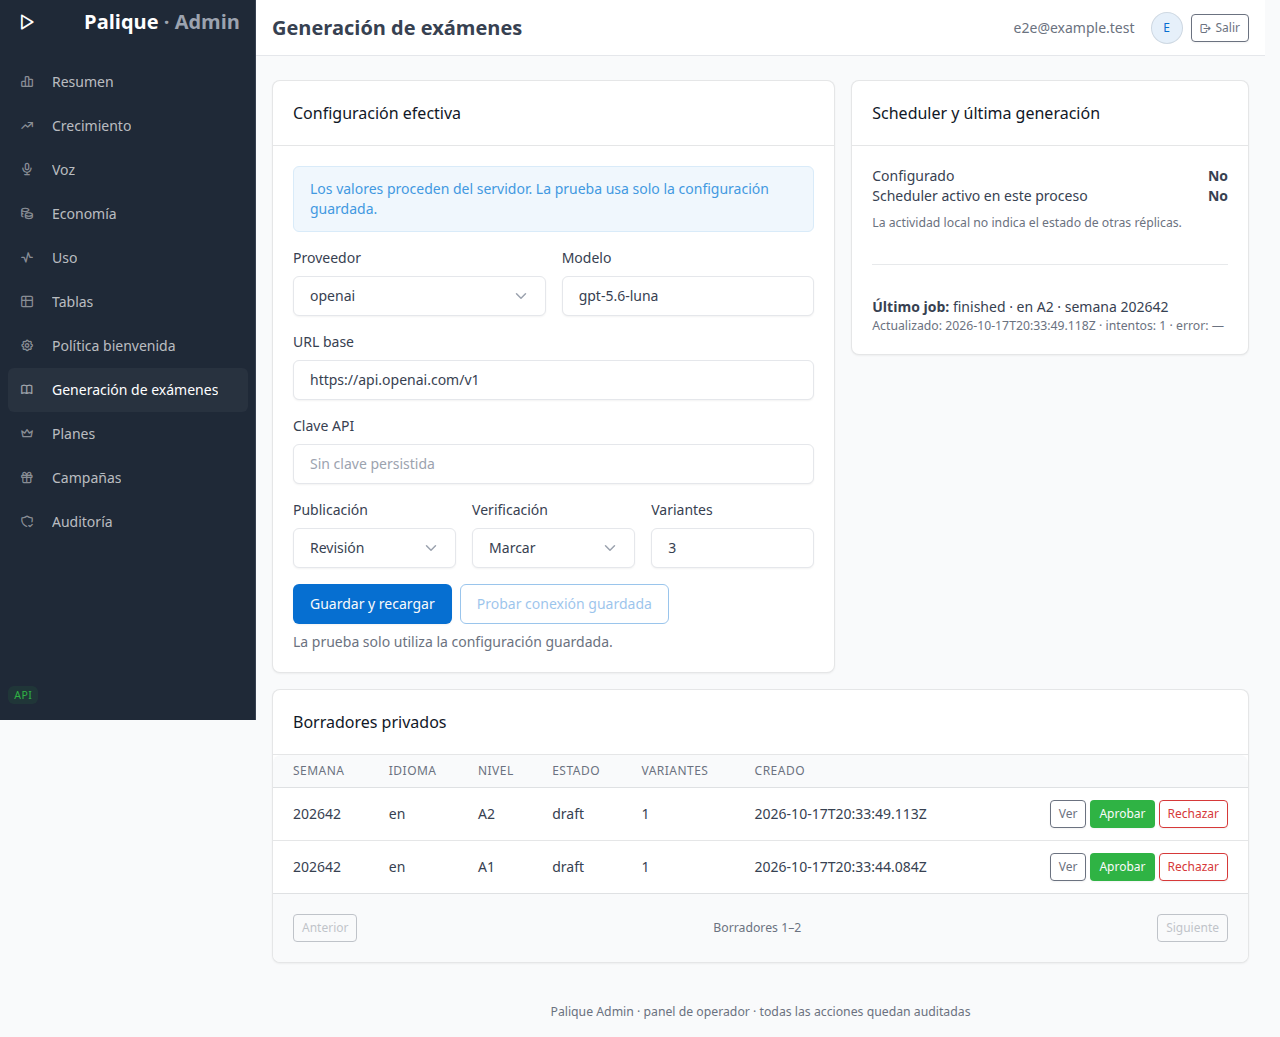
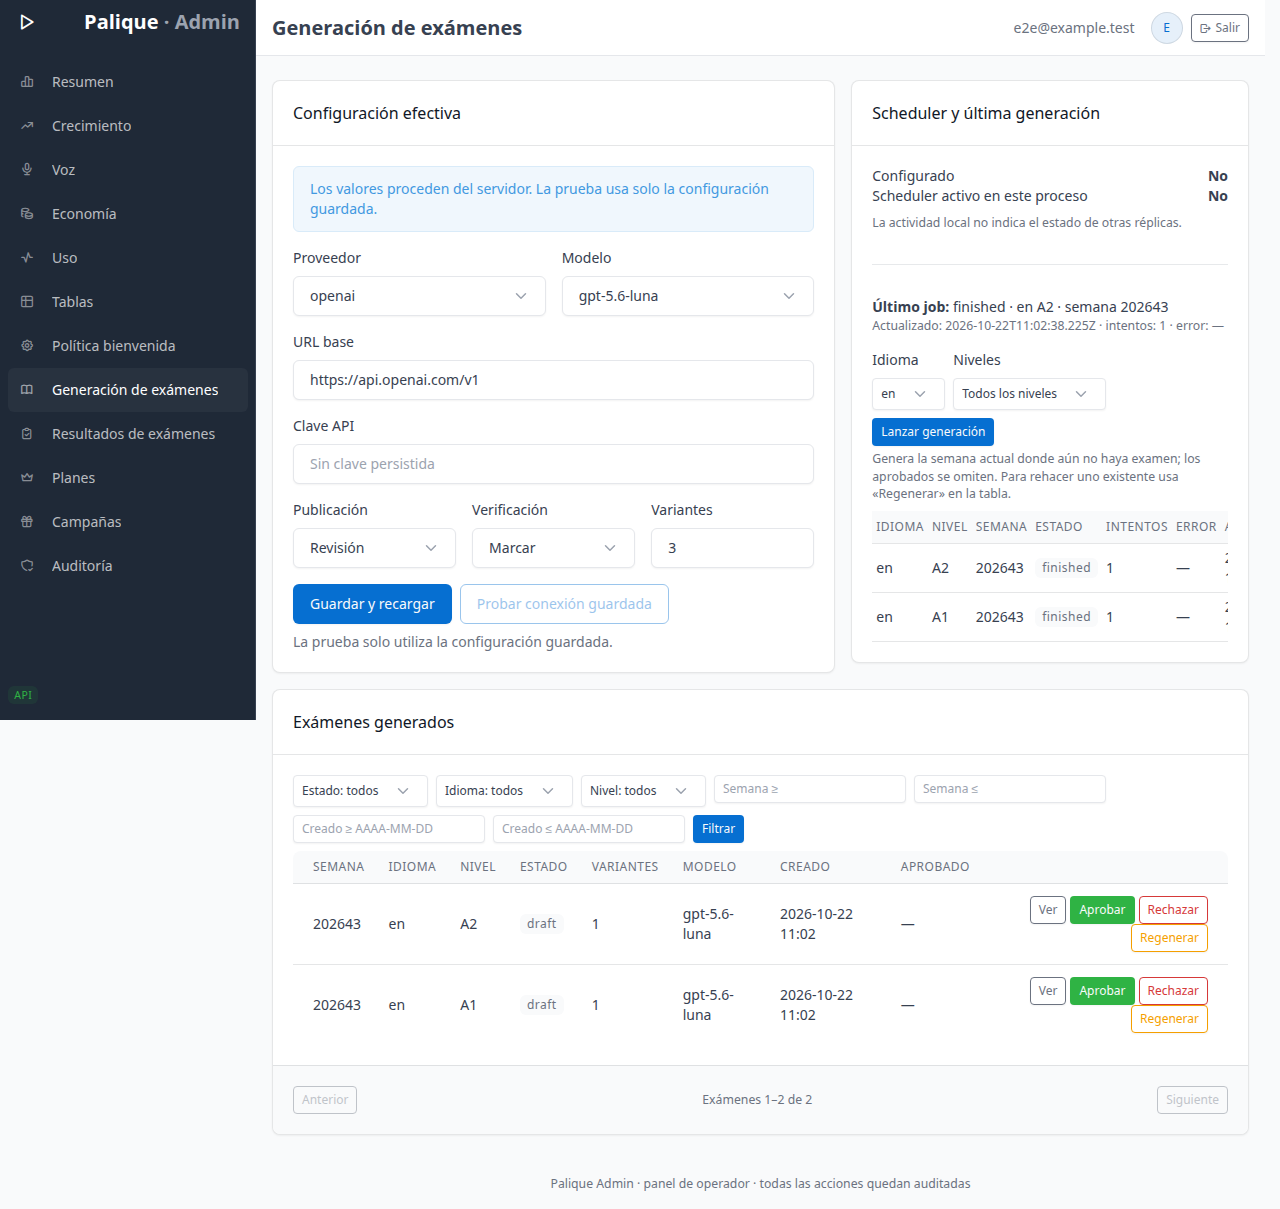
feat(admin-ui): live generation watcher for level-test runs
Launching or regenerating from the panel now paints a status line that
goes queued -> running -> terminal per key, toasts each outcome and
re-renders the weeks table when the run ends, so new drafts show up ready
for review and approval without a manual reload. Running jobs found on
render (scheduler, CLI, another operator) are adopted by the watcher, and
a completion never repaints a section the operator navigated to.

The browser E2E asserts the live status line and the automatic table
refresh, and reports the input value and issued requests when a filter
click gets lost.

diff --git a/services/api/admin-ui/app.js b/services/api/admin-ui/app.js
@@ -292,6 +292,86 @@ async function renderBrowse(container, fixedTable) {
   await mountTable();
 }
 
+/* ---- level-tests view: generation watch state (module scope survives re-renders) ---- */
+let generationWatch = null;      // { keys: Set<'lang:level'>, weekId, timer }
+let lastJobsSnapshot = [];
+let lastWatchStatus = '';
+let levelTestsRender = null;     // { container, view } — refreshed when a watched run ends
+const TERMINAL_JOB_STATES = new Set(['finished', 'failed', 'unknown']);
+
+function renderJobs(jobs = lastJobsSnapshot) {
+  const monitor = $('#jobs-monitor'); if (!monitor) return;
+  monitor.innerHTML = jobs.length ? `<div class="table-responsive"><table class="table table-sm table-vcenter"><thead>
+      <tr><th>Idioma</th><th>Nivel</th><th>Semana</th><th>Estado</th><th>Intentos</th><th>Error</th><th>Actualizado</th></tr></thead><tbody>${jobs.map(job =>
+      '<tr><td>' + escapeHtml(job.languageID) + '</td><td>' + escapeHtml(job.level) + '</td><td>' + escapeHtml(job.weekId) +
+      '</td><td>' + badgeCell({ getValue: () => job.status }) + '</td><td>' + escapeHtml(job.attempts) + '</td><td>' +
+      escapeHtml(job.errorCode || '—') + '</td><td>' + escapeHtml((job.updatedAt || '—').slice(0, 16).replace('T', ' ')) + '</td></tr>').join('')}
+      </tbody></table></div>` : '<div class="text-secondary small">Sin jobs registrados.</div>';
+}
+
+function scheduleGenerationWatch() {
+  if (!generationWatch || generationWatch.timer) return;
+  generationWatch.timer = setTimeout(() => {
+    if (generationWatch) generationWatch.timer = null;
+    void watchGenerationTick();
+  }, 2_000);
+}
+
+async function watchGenerationTick() {
+  const watch = generationWatch;
+  if (!watch) return;
+  const mounted = Boolean($('#jobs-monitor'));
+  if (mounted) {
+    try {
+      const status = await api('/v1/admin/level-tests/status');
+      if (generationWatch !== watch) return;
+      lastJobsSnapshot = status.jobs;
+      renderJobs(lastJobsSnapshot);
+      const byKey = new Map(status.jobs
+        .filter(job => watch.keys.has(`${job.languageID}:${job.level}`) && job.weekId === watch.weekId)
+        .map(job => [`${job.languageID}:${job.level}`, job]));
+      const done = [...watch.keys].filter(key => byKey.get(key) && TERMINAL_JOB_STATES.has(byKey.get(key).status));
+      for (const key of done) {
+        const job = byKey.get(key);
+        watch.results.push(`${key} → ${job.status}${job.errorCode ? ` (${job.errorCode})` : ''}`);
+        toast(`${key}: generación ${job.status === 'finished' ? 'completada' : job.status}${job.errorCode ? ` (${job.errorCode})` : ''}`,
+          job.status === 'finished' ? 'success' : 'danger');
+        watch.keys.delete(key);
+      }
+      const running = [...watch.keys].filter(key => byKey.get(key)?.status === 'running');
+      const queued = [...watch.keys].filter(key => !byKey.get(key));
+      lastWatchStatus = [
+        running.length ? `En marcha: ${running.join(', ')}` : '',
+        queued.length ? `En cola: ${queued.join(', ')}` : '',
+        watch.results.join(' · '),
+      ].filter(Boolean).join(' — ') || 'Esperando al runner de generación…';
+      const line = $('#launch-status');
+      if (!watch.keys.size) {
+        generationWatch = null;
+        lastWatchStatus = `Completado: ${watch.results.join(' · ')}`;
+        if (line) line.textContent = lastWatchStatus;
+        // The runner is done: refresh the weeks table so the new exams show up
+        // ready for review / approve without a manual reload. Never repaint if
+        // the operator moved to another view (they share the same container).
+        if (levelTestsRender && $('#exam-weeks-card'))
+          void renderLevelTestOperations(levelTestsRender.container, levelTestsRender.view);
+        return;
+      }
+      if (line) line.textContent = lastWatchStatus;
+    } catch { /* polling is best effort; retry on the next tick */ }
+  }
+  scheduleGenerationWatch();
+}
+
+function startGenerationWatch(keys, weekId) {
+  if (!keys.length) return;
+  generationWatch = generationWatch && generationWatch.weekId === weekId
+    ? { ...generationWatch, keys: new Set([...generationWatch.keys, ...keys]) }
+    : { keys: new Set(keys), results: [], weekId, timer: null };
+  lastWatchStatus = '';
+  scheduleGenerationWatch();
+}
+
 async function renderLevelTestOperations(container, view = {}) {
   // ISO week id mirroring the server's weekIndex(): year * 100 + ISO week.
   const now = new Date();
@@ -300,6 +380,7 @@ async function renderLevelTestOperations(container, view = {}) {
   monday.setUTCDate(monday.getUTCDate() + 4 - dayNum);
   const yearStart = new Date(Date.UTC(monday.getUTCFullYear(), 0, 1));
   const currentWeekId = monday.getUTCFullYear() * 100 + Math.ceil(((monday.getTime() - yearStart.getTime()) / 86_400_000 + 1) / 7);
+  levelTestsRender = { container, view };
   const filters = view.filters ?? {};
   const params = new URLSearchParams({ limit: '50', offset: String(view.offset ?? 0) });
   for (const [key, value] of Object.entries(filters)) if (value) params.set(key, String(value));
@@ -307,6 +388,13 @@ async function renderLevelTestOperations(container, view = {}) {
     api('/v1/admin/llm-config'), api('/v1/admin/level-tests/status'),
     api('/v1/admin/level-tests/weeks?' + params)
   ]);
+  // Paint the freshest jobs immediately; the watcher keeps them current while
+  // a generation launched from this session is still in flight.
+  lastJobsSnapshot = status.jobs;
+  // Also pick up runs started elsewhere (scheduler, CLI, another operator) so a
+  // reload never leaves the operator blind about an in-flight generation.
+  const runningJobs = status.jobs.filter(job => job.status === 'running' && job.weekId === currentWeekId);
+  if (runningJobs.length) startGenerationWatch(runningJobs.map(job => `${job.languageID}:${job.level}`), currentWeekId);
   const providers = config.providers.map(item =>
     '<option value="' + escapeHtml(item.provider) + '"' + (item.provider === config.provider ? ' selected' : '') + '>' + escapeHtml(item.provider) + '</option>').join('');
   const keyPlaceholder = config.keyHint ? 'Guardada: ' + escapeHtml(config.keyHint) + ' · vacío conserva la clave' : 'Sin clave persistida';
@@ -373,6 +461,7 @@ async function renderLevelTestOperations(container, view = {}) {
           <div class="col-auto"><button class="btn btn-sm btn-primary" id="gen-launch">Lanzar generación</button></div>
         </div>
         <div class="text-secondary small mt-1">Genera la semana actual donde aún no haya examen; los aprobados se omiten. Para rehacer uno existente usa «Regenerar» en la tabla.</div>
+        <div class="small mt-1 fw-bold" id="launch-status">${escapeHtml(lastWatchStatus)}</div>
       </div>
       <div id="jobs-monitor" class="mt-2"></div>
     </div></div></div>
@@ -478,23 +567,9 @@ async function renderLevelTestOperations(container, view = {}) {
       toast(action === 'approve' ? 'Borrador aprobado' : 'Borrador rechazado'); await renderLevelTestOperations(container, view); }
     catch (error) { toast('Error: ' + (error.code || error.message), 'danger'); button.disabled = false; }
   });
-  const renderJobs = jobs => { const monitor = $('#jobs-monitor'); if (!monitor) return;
-    monitor.innerHTML = jobs.length ? `<div class="table-responsive"><table class="table table-sm table-vcenter"><thead>
-      <tr><th>Idioma</th><th>Nivel</th><th>Semana</th><th>Estado</th><th>Intentos</th><th>Error</th><th>Actualizado</th></tr></thead><tbody>${jobs.map(job =>
-      '<tr><td>' + escapeHtml(job.languageID) + '</td><td>' + escapeHtml(job.level) + '</td><td>' + escapeHtml(job.weekId) +
-      '</td><td>' + badgeCell({ getValue: () => job.status }) + '</td><td>' + escapeHtml(job.attempts) + '</td><td>' +
-      escapeHtml(job.errorCode || '—') + '</td><td>' + escapeHtml((job.updatedAt || '—').slice(0, 16).replace('T', ' ')) + '</td></tr>').join('')}
-      </tbody></table></div>` : '<div class="text-secondary small">Sin jobs registrados.</div>';
-  };
-  const pollJobs = async () => {
-    if (!$('#jobs-monitor')) return;
-    try { const fresh = await api('/v1/admin/level-tests/status');
-      if (!$('#jobs-monitor')) return;
-      renderJobs(fresh.jobs);
-      if (fresh.jobs.some(job => job.status === 'running')) setTimeout(pollJobs, 5000);
-    } catch { /* polling is best effort */ }
-  };
-  void pollJobs();
+  // Repaint the watch state on re-render and keep ticking while mounted.
+  renderJobs();
+  scheduleGenerationWatch();
   $('#gen-launch').onclick = async () => {
     const languageID = $('#gen-language').value, levels = $('#gen-levels').value;
     const target = `${languageID} · ${levels === 'all' ? 'todos los niveles' : levels}`;
@@ -503,10 +578,11 @@ async function renderLevelTestOperations(container, view = {}) {
     try {
       const outcome = await api('/v1/admin/level-tests/generate', { method: 'POST',
         body: JSON.stringify({ languageID, levels, reason: decision.reason }) });
-      const launched = outcome.keys.filter(key => key.status === 'started').length;
-      const skipped = outcome.keys.length - launched;
-      toast(`Lanzados ${launched} examen(es)${skipped ? ` · ${skipped} aprobados omitidos` : ''}`);
-      void pollJobs();
+      const launched = outcome.keys.filter(key => key.status === 'started');
+      const skipped = outcome.keys.length - launched.length;
+      toast(`Lanzados ${launched.length} examen(es)${skipped ? ` · ${skipped} aprobados omitidos` : ''}`);
+      startGenerationWatch(launched.map(key => `${key.languageID}:${key.level}`), currentWeekId);
+      void watchGenerationTick();
     } catch (error) { toast('Error: ' + (error.code || error.message), 'danger'); }
   };
   container.querySelectorAll('[data-week-regenerate]').forEach(button => button.onclick = async () => {
@@ -516,7 +592,8 @@ async function renderLevelTestOperations(container, view = {}) {
     button.disabled = true;
     try { await api('/v1/admin/level-tests/regenerate', { method: 'POST',
         body: JSON.stringify({ languageID, level, reason: decision.reason }) });
-      toast('Regeneración iniciada'); void pollJobs();
+      toast('Regeneración iniciada'); startGenerationWatch([`${languageID}:${level}`], currentWeekId);
+      void watchGenerationTick();
     } catch (error) { toast('Error: ' + (error.code || error.message), 'danger'); button.disabled = false; }
   });
 }

diff --git a/openspec/changes/admin-exam-operations/verify-report.md b/openspec/changes/admin-exam-operations/verify-report.md
@@ -6,7 +6,8 @@ Fecha: 2026-10-22 · Rama `feature/learning-platform`
 
 - `npx tsc --noEmit` (services/api): limpio.
 - `make test-api` (suite completa con PG 17 efímero): **559/559 pass**, 0 fallos. Incluye:
-  - `tests/level-tests-admin.test.ts` (13 tests): listado de semanas con filtros status/language/level/rango de semanas/rango de fechas, orden con whitelist, paginación con total estable, 400 en query malformada, 401/403 (auth + Origin), `no-store`; detalle con pool/variants/review y 404/400; regeneración (202 + auditoría, 409 en clave aprobada sin auditoría, 400 en semana pasada/razón corta/claves inválidas, CSRF 403, 401 sin sesión); `jobs[]` en `/status` conservando `latestJob`.
+  - `tests/level-tests-admin.test.ts` (17 tests, incluye el lanzador on-demand:
+    omisión de claves aprobadas, nivel único, validaciones 400/401 y auditoría): listado de semanas con filtros status/language/level/rango de semanas/rango de fechas, orden con whitelist, paginación con total estable, 400 en query malformada, 401/403 (auth + Origin), `no-store`; detalle con pool/variants/review y 404/400; regeneración (202 + auditoría, 409 en clave aprobada sin auditoría, 400 en semana pasada/razón corta/claves inválidas, CSRF 403, 401 sin sesión); `jobs[]` en `/status` conservando `latestJob`.
   - `tests/level-tests-attempts.test.ts` (9 tests): listado de resultados con joins snapshot/alumno, filtros account/email/language/level/state/passed/rangos, orden por overall, paginación; detalle con answers + result y 404 cross-account; summary con KPIs y desglose por semana y por nivel; export CSV con cabecera según spec, escape de fórmulas (`'=`) y tope 10 000 (413 `export_too_large`).
   - Suite preexistente completa en verde.
 - `node --check services/api/admin-ui/app.js`: OK (UI sin build).
@@ -17,8 +18,10 @@ Fecha: 2026-10-22 · Rama `feature/learning-platform`
   fuera (listado con filtros, moderación con motivo, regeneración con monitor
   de jobs, resultados con filtros, detalle, vista por alumno) están cubiertos
   ahora por el E2E de navegador real (`services/api/tests/browser/admin-e2e.mjs`,
-  24/24 checks con stack Docker aislado + LLM stub + Chromium local, incluyendo
-  el lanzador de generación desde el panel).
+  25/25 checks con stack Docker aislado + LLM stub + Chromium local, incluyendo
+  el lanzador de generación desde el panel y el watcher de progreso: línea de
+  estado en vivo, estado final por clave y refresco automático de la tabla).
+  4 tandas completas consecutivas en verde tras el endurecimiento del watcher.
 - Regeneración concurrente real (advisory lock contra CLI/scheduler a la vez):
   cubierta indirectamente por los tests del módulo de jobs, no reproducida en
   paralelo real aquí.

diff --git a/openspec/changes/admin-exam-operations/specs/admin-exam-management/spec.md b/openspec/changes/admin-exam-operations/specs/admin-exam-management/spec.md
@@ -92,6 +92,22 @@ The system SHALL extend `GET /v1/admin/level-tests/status` with `jobs[]`, the la
 - **WHEN** several generation jobs have been recorded
 - **THEN** `jobs[]` contains the last 10 rows newest-first and `latestJob` still names the most recent one.
 
+### Requirement: Generation progress watcher
+
+The panel SHALL keep an explicit live status line for every generation run it starts (launch or regeneration) showing `En cola`, `En marcha` and the terminal state of each key (`Completado: en:B1 → finished`), poll `GET /v1/admin/level-tests/status` until every watched key reaches a terminal state, toast each key's outcome, and then re-render the weeks listing so the new exams appear ready for review and approval without a manual reload. A run in progress discovered on render (scheduler, CLI or another operator) SHALL be adopted by the watcher, and a completion landing while another view is mounted SHALL NOT repaint that view.
+
+#### Scenario: Launch is visible from click to outcome
+- **WHEN** an operator launches generation for a level
+- **THEN** the status line reports the run immediately, ends with the key's terminal state, and the weeks table shows the resulting draft row without a reload.
+
+#### Scenario: Foreign run is adopted on reload
+- **WHEN** the panel renders while a job for the current week is `running`
+- **THEN** the watcher starts for that key and reports its outcome when it ends.
+
+#### Scenario: Completion never hijacks another view
+- **WHEN** a watched run ends while the operator is on a different section
+- **THEN** that section stays mounted and the weeks table refreshes only when the operator returns to it.
+
 ### Requirement: Drafts endpoint compatibility
 
 The system SHALL keep `GET /v1/admin/level-tests/drafts` unchanged in behavior.

diff --git a/openspec/changes/admin-exam-operations/tasks.md b/openspec/changes/admin-exam-operations/tasks.md
@@ -13,6 +13,7 @@
 - [x] 3.2 `jobs[]` in `/v1/admin/level-tests/status` (last 10, keeps `latestJob`)
 - [x] 3.3 Panel: Regenerar button (current week, draft/rejected only), reason modal, jobs table with 5 s polling
 - [x] 3.4 On-demand launcher: `POST /v1/admin/level-tests/generate` (one level or all, skips approved, sequential runner) + panel launch form
+- [x] 3.5 Generation watcher: live status line (cola / marcha / estado final por clave), outcome toasts, automatic weeks-table refresh, adoption of foreign runs and container guard
 
 ## 4. Results (admin-exam-results)
 - [x] 4.1 `GET /v1/admin/level-test-attempts` listing with joins, filters, sort, pagination
